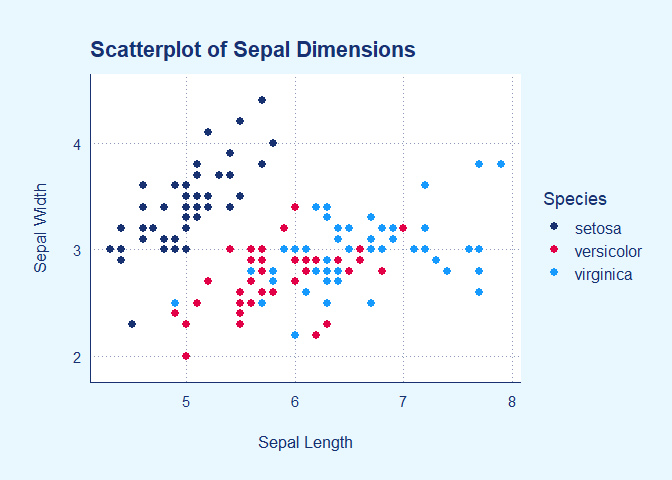
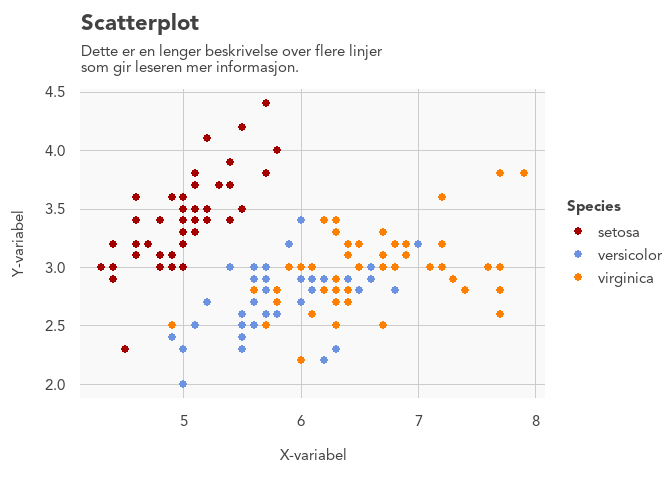
updated readme and vignettes

diff --git a/README.md b/README.md
@@ -6,6 +6,7 @@
 <!-- badges: start -->
 
 [![R-CMD-check](https://github.com/Riksrevisjonen/rrplot/actions/workflows/R-CMD-check.yaml/badge.svg)](https://github.com/Riksrevisjonen/rrplot/actions/workflows/R-CMD-check.yaml)
+
 <!-- badges: end -->
 
 The purpose of rrplot is to provide auditors at OAG Norway with the
@@ -14,12 +15,11 @@ accordance with official requirements.
 
 ## Installation
 
-You can install the development version of rrplot from
-[GitHub](https://github.com/) with:
+You can install the development version of rrplot from the local
+repository with:
 
 ``` r
-# install.packages("devtools")
-devtools::install_github("Riksrevisjonen/rrplot")
+install.packages("rrplot2", repos = "https://cran.riksrevisjonen.no/latest") 
 ```
 
 ## Contents
@@ -71,13 +71,13 @@ show_col(RR_pal()(9))
 Continuous color palette functions:
 
 - `scale_fill_continuous_RR_red`: Red continuous **fill** scale between
-  `#FB749D` and `#B8002A`
+  `#fcb7b9` and `#a40000`
 - `scale_fill_continuous_RR_blue` Blue continuous **fill** scale between
-  `#4CA4E6` and `#01123B`
+  `#b4c6e9` and `#001b61`
 - `scale_color_continuous_RR_red` Red continuous **color** scale between
-  `#FB749D` and `#B8002A`
+  `#fcb7b9` and `#a40000`
 - `scale_color_continuous_RR_blue` Blue continuous **color** scale
-  between `#4CA4E6` and `#01123B`
+  between `#b4c6e9` and `#001b61`
 
 ## Examples
 
@@ -85,23 +85,32 @@ This is a basic example which shows you how to create a bar chart:
 
 ``` r
 library(ggplot2)
-library(ggthemes)
-# library(rrplot)
+library(rrplot2)
+#> Attaching system fonts
+#> 
+#> Attaching package: 'rrplot2'
+#> The following objects are masked from 'package:rrplot':
+#> 
+#>     check_pal_n_RR, geom_bar_flipped_RR, geom_bar_RR, geom_density_RR,
+#>     geom_jitter_RR, geom_line_RR, geom_point_RR, RR_pal,
+#>     scale_color_continuous_RR_blue, scale_color_continuous_RR_red,
+#>     scale_color_RR, scale_fill_continuous_RR_blue,
+#>     scale_fill_continuous_RR_red, scale_fill_RR, theme_RR
 
 mtcars |>
   ggplot(aes(x = factor(cyl),
              fill = factor(am))) +
   theme_RR() +
   geom_bar_RR() +
-  labs(title = "This is a bar chart",
-       subtitle = "This is a more detailed description of the underlying data",
-       x = "Number of Cylinders",
-       y = "Count",
-       fill = "Category") +
+  labs(title = "Dette er et søylediagram",
+       subtitle = "Fordelt på undergrupper",
+       x = "Gruppe",
+       y = "Antall",
+       fill = "Kategori") +
   scale_fill_RR()
 ```
 
-<img src="man/figures/example_1.svg" width="100%" />
+<img src="man/figures/README-unnamed-chunk-3-1.png" width="100%" />
 
 Note that `geom_bar_RR()` accepts the same arguments as `geom_bar()`.
 Again, please note that `theme_RR()` needs to be placed **before** the
@@ -118,11 +127,10 @@ iris |>
   theme_RR() +
   geom_point_RR() +
   labs(title = "Scatterplot",
-       subtitle = "This is a longer text that spans across several lines,\nproviding more information to the reader.",
-       x = "Sepal Length",
-       y = "Sepal Width") +
+       subtitle = "Dette er en lenger beskrivelse over flere linjer\nsom gir leseren mer informasjon.",
+       x = "X-variabel",
+       y = "Y-variabel") +
   scale_color_RR()
-
 ```
 
-<img src="man/figures/example_2.svg" width="100%" />
+<img src="man/figures/README-unnamed-chunk-4-1.png" width="100%" />
